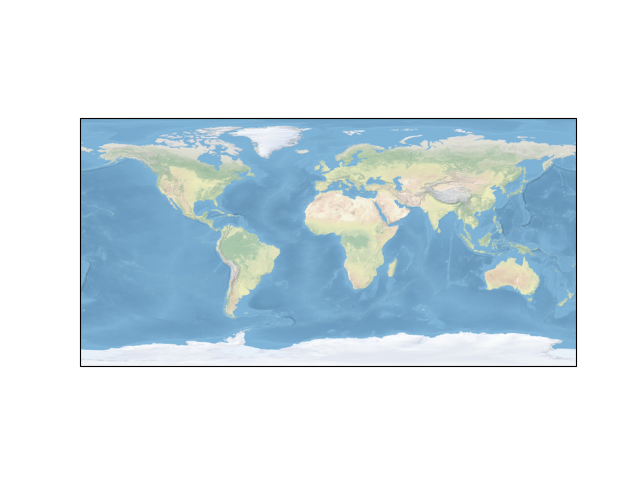
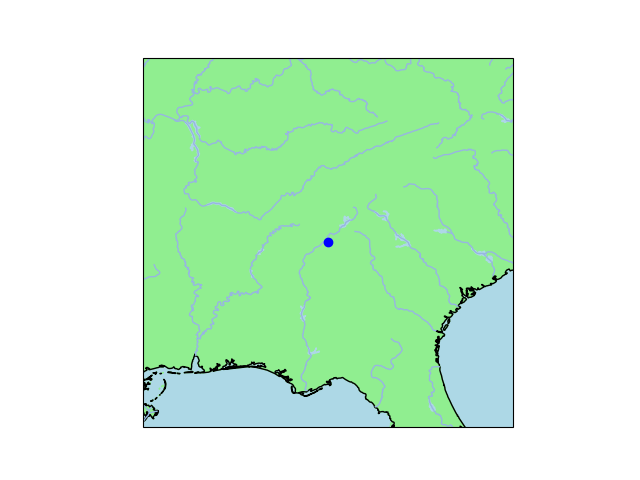
color

diff --git a/bot.py b/bot.py
@@ -4,6 +4,9 @@ from logic import *
 
 bot = telebot.TeleBot(TOKEN)
 
+# Словарь для хранения выбранных цветов маркеров для каждого пользователя
+user_colors = {}
+
 @bot.message_handler(commands=['start'])
 def handle_start(message):
     bot.send_message(message.chat.id, "Привет! Я бот, который может показывать города на карте. Напиши /help для списка команд.")
@@ -12,21 +15,33 @@ def handle_start(message):
 def handle_help(message):
     help_text = """
 Доступные команды:
-/start - Начать работу с ботом и получить приветственное сообщение.
-/help - Получить список доступных команд.
-/show_city <название города> - Отобразить указанный город на карте.
+/start - Начать работу с ботом.
+/help - Получить список команд.
+/show_city <название города> - Показать город на карте.
 /remember_city <название города> - Сохранить город в список посещенных.
 /show_my_cities - Показать все сохраненные города.
-
-Также ты можешь просто написать название города, и я покажу его на карте!
+/set_color <цвет> - Выбрать цвет маркеров (например, red, blue, green).
 """
     bot.send_message(message.chat.id, help_text)
+
+@bot.message_handler(commands=['set_color'])
+def handle_set_color(message):
+    user_id = message.chat.id
+    color = message.text.split()[-1].lower()
+    available_colors = ['red', 'blue', 'green', 'yellow', 'purple', 'orange']
+    
+    if color in available_colors:
+        user_colors[user_id] = color
+        bot.send_message(user_id, f"Цвет маркеров изменен на {color}.")
+    else:
+        bot.send_message(user_id, "Недопустимый цвет. Доступные цвета: red, blue, green, yellow, purple, orange.")
 
 @bot.message_handler(commands=['show_city'])
 def handle_show_city(message):
     city_name = message.text.split()[-1]
     user_id = message.chat.id
-    manager.create_graph(f'{user_id}.png', [city_name])
+    marker_color = user_colors.get(user_id, 'blue')  # По умолчанию синий цвет
+    manager.create_graph(f'{user_id}.png', [city_name], marker_color)
 
     with open(f'{user_id}.png', 'rb') as map:
         bot.send_photo(user_id, map)
@@ -44,20 +59,21 @@ def handle_remember_city(message):
 def handle_show_visited_cities(message):
     cities = manager.select_cities(message.chat.id)
     if cities:
-        manager.create_graph(f'{message.chat.id}_cities.png', cities)
+        marker_color = user_colors.get(message.chat.id, 'blue')  # По умолчанию синий цвет
+        manager.create_graph(f'{message.chat.id}_cities.png', cities, marker_color)
         with open(f'{message.chat.id}_cities.png', 'rb') as map:
             bot.send_photo(message.chat.id, map)
     else:
         bot.send_message(message.chat.id, "Вы еще не сохранили ни одного города.")
 
-@bot.message_handler(func=lambda message: True)  # Обработчик для текстовых сообщений
+@bot.message_handler(func=lambda message: True)
 def handle_text(message):
-    city_name = message.text.strip()  # Убираем лишние пробелы
+    city_name = message.text.strip()
     user_id = message.chat.id
+    marker_color = user_colors.get(user_id, 'blue')  # По умолчанию синий цвет
 
-    # Проверяем, есть ли город в базе данных
     if manager.get_coordinates(city_name):
-        manager.create_graph(f'{user_id}.png', [city_name])
+        manager.create_graph(f'{user_id}.png', [city_name], marker_color)
         with open(f'{user_id}.png', 'rb') as map:
             bot.send_photo(user_id, map)
     else:

diff --git a/logic.py b/logic.py
@@ -4,7 +4,7 @@ import matplotlib
 matplotlib.use('Agg')
 import matplotlib.pyplot as plt
 import cartopy.crs as ccrs
-
+import cartopy.feature as cfeature
 
 class DB_Map():
     def __init__(self, database):
@@ -20,7 +20,7 @@ class DB_Map():
                             )''')
             conn.commit()
 
-    def add_city(self,user_id, city_name ):
+    def add_city(self, user_id, city_name):
         conn = sqlite3.connect(self.database)
         with conn:
             cursor = conn.cursor()
@@ -34,7 +34,6 @@ class DB_Map():
             else:
                 return 0
 
-            
     def select_cities(self, user_id):
         conn = sqlite3.connect(self.database)
         with conn:
@@ -47,7 +46,6 @@ class DB_Map():
             cities = [row[0] for row in cursor.fetchall()]
             return cities
 
-
     def get_coordinates(self, city_name):
         conn = sqlite3.connect(self.database)
         with conn:
@@ -58,32 +56,46 @@ class DB_Map():
             coordinates = cursor.fetchone()
             return coordinates
 
-    def create_graph(self, path, cities):
+    def create_graph(self, path, cities, marker_color='blue'):
         ax = plt.axes(projection=ccrs.PlateCarree())
-        ax.stock_img()
         
+        # Заливка океанов и континентов
+        ax.add_feature(cfeature.OCEAN, color='lightblue')
+        ax.add_feature(cfeature.LAND, color='lightgreen')
+        ax.add_feature(cfeature.COASTLINE)
+        ax.add_feature(cfeature.BORDERS, linestyle=':')
+        ax.add_feature(cfeature.LAKES, color='lightblue')
+        ax.add_feature(cfeature.RIVERS)
+
+        # Собираем координаты всех городов
+        lats, lngs = [], []
         for city in cities:
             coordinates = self.get_coordinates(city)
-
             if coordinates:
                 lat, lng = coordinates
+                lats.append(lat)
+                lngs.append(lng)
                 plt.plot([lng], [lat],
-                color='blue', linewidth=2, marker='o',
-                transform=ccrs.Geodetic(),)
-                
+                         color=marker_color, linewidth=2, marker='o',
+                         transform=ccrs.Geodetic())
                 plt.text(lng - 3, lat - 12, city,
-                horizontalalignment='right',
-                transform=ccrs.Geodetic())
-        
+                         horizontalalignment='right',
+                         transform=ccrs.Geodetic())
+
+        # Настройка области отображения для всех городов
+        if lats and lngs:
+            min_lat, max_lat = min(lats), max(lats)
+            min_lng, max_lng = min(lngs), max(lngs)
+            # Добавляем буфер для лучшего отображения
+            buffer = 10  # Размер буфера в градусах
+            ax.set_extent([min_lng - buffer, max_lng + buffer, min_lat - buffer, max_lat + buffer])
+
         plt.savefig(path)
         plt.close()
 
-        
     def draw_distance(self, city1, city2):
         pass
 
-
-if __name__=="__main__":
-    
+if __name__ == "__main__":
     m = DB_Map(DATABASE)
     m.create_user_table()
